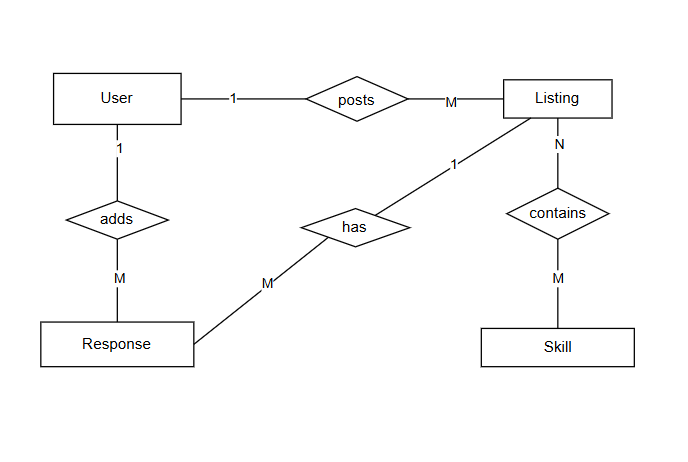
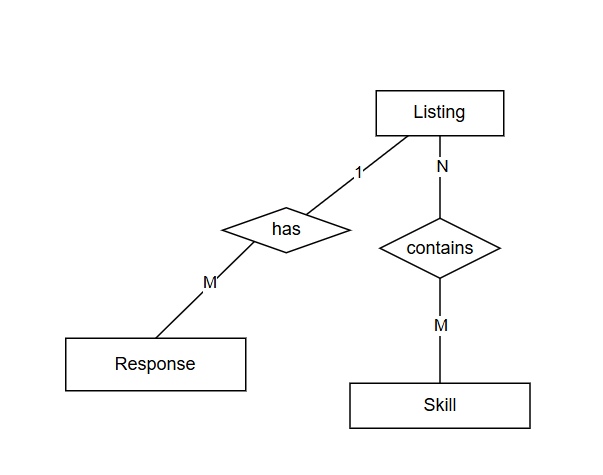
added sections to readme

diff --git a/README.md b/README.md
@@ -4,33 +4,84 @@ SkillSwap Board is where people can share skills they are willing to teach, ask 
 
 ## FEATURES
 
-- 
+- Create, read, update, and delete listings 
+- Link multiple skills to individual listings using many-to-many database relationship
+- Submit and view public responses attached to listings
+- Filter listings by type or skill, and search descriptions
+- Paginate using page and limit query parameters
+- Validate incoming request bodies and reject invalid route parameters before database operations.
+- Middleware for safe handling of 400, 404, 409, and 500 HTTP responses
+- Script to populate PostgreSQL with initial sample data
+
+## FOLDER STRUCTURE
+
+```bash
+skillswap-board-api/
+|-- package.json
+|-- README.md
+|-- .env.example
+|-- prisma.config.ts
+|-- prisma/
+|   |-- schema.prisma
+|   |-- migrations/
+|   -- seed.js
+|-- src/
+    |-- app.js
+    |-- server.js
+    |-- lib/
+    |   -- prisma.js
+    |-- routes/
+    |-- controllers/
+    |-- services/
+    |-- middleware/
+```
+
+## API Endpoints
+
+- GET /api/listings
+  - Returns public listings with optional filters for type, skill, search, page, and limit query parameters.
+
+- GET /api/listings/:id
+  - Finds listing by its ID.
+
+- POST /api/listings
+  - Creates a new listing.
+
+- PATCH /api/listings/:id
+  - Updates existing listing by its ID.
+
+- DELETE /api/listings/:id
+  - Deletes a listing by its ID.
+
+- GET /api/listings/:id/responses
+  - Returns all  responses belonging to a specific listing.
+
+- POST /api/listings/:id/responses
+  - Creates a new response for a specific listing.
+
+- GET /api/skills
+  - Returns all  skills
 
 ## DATABASE DESIGN
 
 ### TABLES OVERVIEW
-
-1. User
-   - Stores users' name and email
-   - Primary key is id  
-2. Listing
+ 
+1. Listing
    - Stores the type of listing (wanting or offering) and id of user who created it
    - Primary key is id and foriegn key is user_id
-3. Skill
+2. Skill
    - Stores the name of a skill
    - Primary key is id
-4. Response
+3. Response
    - Stores the response text to a listing, the id of the user and id of the listing
    - Primary key is id, foreign keys are listing_id and user_id
-5. Listing_Skill
+4. Listing_Skill
    - It's a junction table for listing and skill
    - Primary key is (listing_id, skill_id) and foreign keys are listing_id and skill_id
   
 ### DATABASE RELATIONSHIPS
 
 - One-to-many
-  - user-listing : one user can post multiple listings but a listing only has one user
-  - user-reponse : one user can add multiple responses but a response only belongs to one user
   - listing-response : one listing can have multiple reponses but a response belongs to one listing
 - Many-to-many
   - listing-skill : a listing may have multiple skills and a skill may belong to multiple listings
@@ -38,3 +89,28 @@ SkillSwap Board is where people can share skills they are willing to teach, ask 
 ### RELATIONSHIP DIAGRAM
 
 ![Relationship Diagram](assets/image.png)
+
+## HOW TO RUN
+
+## How to Run
+
+1. Clone the repository
+   git clone https://github.com/Megdelawit365/skillswap-board-api
+   cd skillswap-board-api
+
+2. Install dependencies:
+   npm install
+
+3. Environment Setup:
+   Create a .env file in the root directory based on .env.example:
+   DATABASE_URL=
+   PORT=
+
+4. Run database migrations:
+   npx prisma migrate dev
+
+5. Seed the database:
+   npx prisma db seed
+
+6. Start the server:
+   npm run dev
